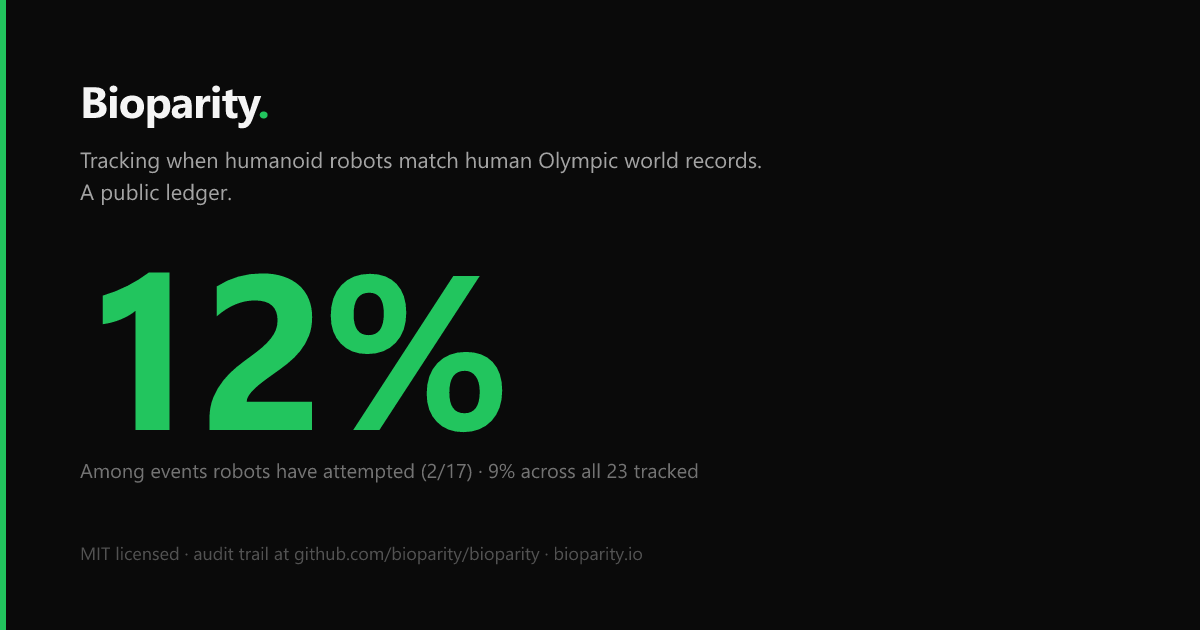
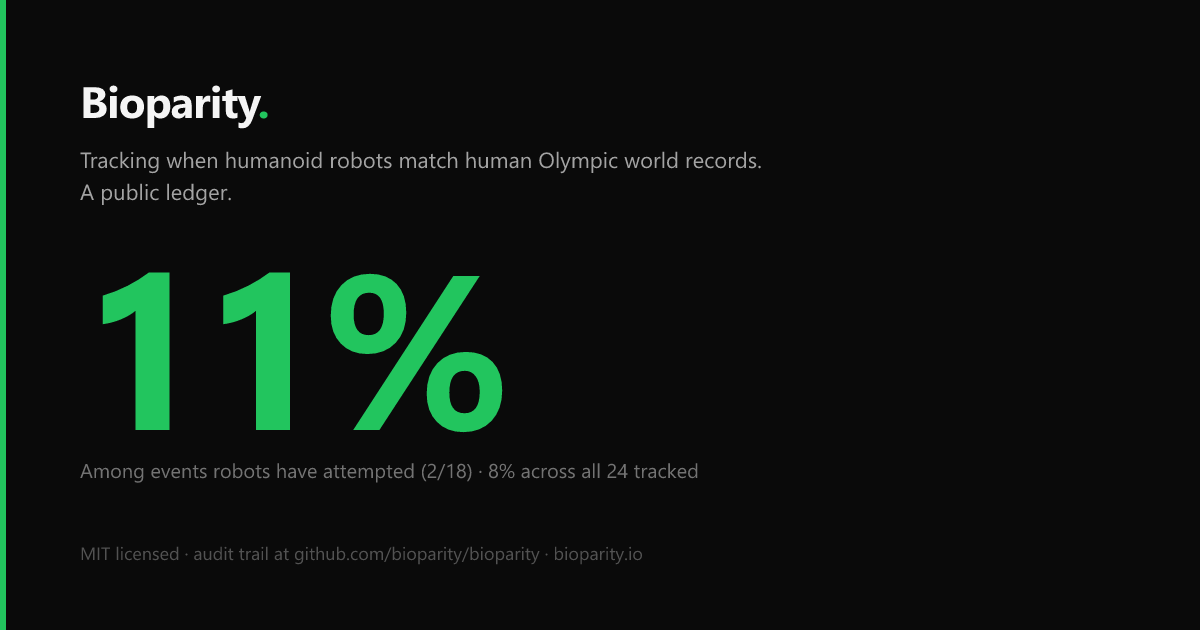
feat: add men's half marathon with real Kiplimo WR and Beijing Flash ineligible attempt

Changed region(s): [[0.1542, 0.4222, 0.2775, 0.6937]]

diff --git a/tests/engine.test.js b/tests/engine.test.js
@@ -255,11 +255,17 @@ test('5. precedence: outside epsilon and faster (lower_is_better) = Robot Lead',
 // ---------------------------------------------------------------------------
 // 6. Selection determinism — same input always same best
 // ---------------------------------------------------------------------------
-test('6. selection determinism: lower_is_better picks the lowest eligible value', () => {
+test('6. selection determinism: lower_is_better picks the lowest eligible value (verified set)', () => {
+  const verified = (overrides) => basePerformance({
+    validation_status: 'verified',
+    source_url: 'https://example.org/record',
+    sanctioning_body: 'World Athletics',
+    ...overrides,
+  });
   const perfs = [
-    basePerformance({ value: 11.0, date: '2025-01-01' }),
-    basePerformance({ value: 9.5, date: '2025-02-01' }),
-    basePerformance({ value: 10.0, date: '2025-03-01' }),
+    verified({ value: 11.0, date: '2025-01-01' }),
+    verified({ value: 9.5, date: '2025-02-01' }),
+    verified({ value: 10.0, date: '2025-03-01' }),
   ];
   const r1 = selectBestPerformance(perfs, 'lower_is_better');
   const r2 = selectBestPerformance(perfs.slice().reverse(), 'lower_is_better');
@@ -281,7 +287,7 @@ test('6. selection determinism: higher_is_better picks the highest eligible valu
 // ---------------------------------------------------------------------------
 // 7. Fallback flag: experimental chosen when no eligible row exists
 // ---------------------------------------------------------------------------
-test('7. fallback: when no eligible+validated row, best experimental ineligible row is selected with fallback=true', () => {
+test('7. selection: ineligible experimental rows are NEVER selected as best (eligibility required for both primary AND fallback)', () => {
   const perfs = [
     basePerformance({
       value: 9.0,
@@ -291,11 +297,45 @@ test('7. fallback: when no eligible+validated row, best experimental ineligible 
     }),
   ];
   const r = selectBestPerformance(perfs, 'lower_is_better');
+  assert.equal(r.performance, null);
+  assert.equal(r.fallback, false);
+});
+
+test('7. selection: experimental+eligible row is selected as fallback when no verified row exists', () => {
+  const perfs = [
+    basePerformance({
+      value: 9.0,
+      validation_status: 'experimental',
+      record_eligibility: { eligible: true, reason: null },
+    }),
+  ];
+  const r = selectBestPerformance(perfs, 'lower_is_better');
   assert.equal(r.performance.value, 9.0);
   assert.equal(r.fallback, true);
 });
 
-test('7. fallback: unverified rows are NEVER selected (even with eligible=true)', () => {
+test('7. selection: verified+eligible is preferred over experimental+eligible even when experimental is better', () => {
+  const perfs = [
+    basePerformance({
+      value: 10.0,
+      validation_status: 'verified',
+      source_url: 'https://example.org/record',
+      sanctioning_body: 'World Athletics',
+      record_eligibility: { eligible: true, reason: null },
+    }),
+    basePerformance({
+      value: 9.0,
+      validation_status: 'experimental',
+      record_eligibility: { eligible: true, reason: null },
+    }),
+  ];
+  const r = selectBestPerformance(perfs, 'lower_is_better');
+  assert.equal(r.performance.value, 10.0);
+  assert.equal(r.performance.validation_status, 'verified');
+  assert.equal(r.fallback, false);
+});
+
+test('7. selection: unverified rows are NEVER selected (even with eligible=true)', () => {
   const perfs = [
     basePerformance({
       value: 9.0,
@@ -560,4 +600,63 @@ test('12. ledger seed contains the ProRL Combine 2026 pending entry on mens-100m
   assert.equal(prorl.value, null);
   assert.equal(prorl.validation_status, 'unverified');
   assert.match(prorl.source_url || '', /pro-rl/);
+});
+
+// ---------------------------------------------------------------------------
+// 13. Real-event case: men's half marathon — Kiplimo (human WR) vs Honor Flash
+//     (Beijing E-Town, ineligible). The robot is faster but the surface is not
+//     standardized, so it must NOT be selected as best and the event must
+//     resolve to "Human Lead (no eligible robot performance)".
+// ---------------------------------------------------------------------------
+test('13. half marathon event loads from the seed without throwing', () => {
+  const ledger = loadLedger(LEDGER_PATH);
+  const ev = ledger.events.find(e => e.event_id === 'mens-half-marathon');
+  assert.ok(ev, 'mens-half-marathon must exist in the ledger');
+  assert.equal(ev.human_record.holder, 'Jacob Kiplimo');
+  assert.equal(ev.human_record.value, 3440);
+  assert.equal(ev.human_record.verified_by, 'World Athletics');
+});
+
+test('13. Honor Flash performance passes hard-fail validation', () => {
+  const ledger = loadLedger(LEDGER_PATH);
+  const ev = ledger.events.find(e => e.event_id === 'mens-half-marathon');
+  const flash = ev.performances.find(p => p.robot_model === 'Flash');
+  assert.ok(flash, 'Flash performance must exist');
+  assert.equal(passesHardFail(flash), true);
+});
+
+test('13. Honor Flash record_eligibility resolves to false on surface_standardized', () => {
+  const ledger = loadLedger(LEDGER_PATH);
+  const ev = ledger.events.find(e => e.event_id === 'mens-half-marathon');
+  const flash = ev.performances.find(p => p.robot_model === 'Flash');
+  const elig = checkEligibility(flash);
+  assert.equal(elig.eligible, false);
+  assert.match(elig.reason, /surface_standardized=false/);
+});
+
+test('13. selectBestPerformance returns null for the half marathon (no eligible row)', () => {
+  const ledger = loadLedger(LEDGER_PATH);
+  const ev = ledger.events.find(e => e.event_id === 'mens-half-marathon');
+  const sel = selectBestPerformance(ev.performances, ev.comparison_direction);
+  assert.equal(sel.performance, null);
+  assert.equal(sel.fallback, false);
+});
+
+test('13. computeStatus returns "Human Lead (no eligible robot performance)" for the half marathon', () => {
+  const ledger = loadLedger(LEDGER_PATH);
+  const ev = ledger.events.find(e => e.event_id === 'mens-half-marathon');
+  const result = computeStatus(ev);
+  assert.equal(result.status, STATUS.HUMAN_LEAD_NO_ELIGIBLE);
+  assert.equal(result.best_robot, null);
+});
+
+test('13. Flash row is preserved in event.performances (not filtered out) so the UI can render it as ineligible', () => {
+  const ledger = loadLedger(LEDGER_PATH);
+  const ev = ledger.events.find(e => e.event_id === 'mens-half-marathon');
+  assert.ok(ev.performances.length >= 1, 'performances array must retain ineligible attempts');
+  const flash = ev.performances.find(p => p.robot_model === 'Flash');
+  assert.ok(flash, 'Flash row must remain in event.performances even though ineligible');
+  assert.equal(flash.value, 3026);
+  assert.equal(flash.manufacturer, 'Honor');
+  assert.equal(flash.sanctioning_body, 'Beijing E-Town Half Marathon');
 });

diff --git a/app/event/[event_id]/page.js b/app/event/[event_id]/page.js
@@ -105,11 +105,6 @@ export default function EventPage({ params }) {
                 <span className="text-paper font-mono">{formatDelta(computed.delta_to_parity, event.metric_type)}</span>{' '}
                 <span className="text-dim">({formatPercent(computed.percent_to_parity)})</span>
               </div>
-              {computed.fallback && (
-                <div className="text-[10px] uppercase tracking-wider text-warn mt-2">
-                  Fallback: experimental
-                </div>
-              )}
             </>
           ) : (
             <div className="text-sm text-faint italic">No selectable performance.</div>
@@ -126,6 +121,57 @@ export default function EventPage({ params }) {
           <a href="/submit" className="underline hover:text-paper not-italic">submit a verified performance</a>.
         </p>
       )}
+
+      {(() => {
+        const ineligible = (event.performances || []).filter(p =>
+          p && p.value !== null && p.value !== undefined && p.record_eligibility && p.record_eligibility.eligible === false
+        );
+        if (ineligible.length === 0) return null;
+        return (
+          <section className="mt-10">
+            <h2 className="text-xs uppercase tracking-widest text-dim mb-3">Ineligible attempts</h2>
+            <div className="space-y-3">
+              {ineligible.map(p => (
+                <div key={p.performance_id} className="border border-rule rounded-lg p-5 bg-panel">
+                  <div className="flex items-start justify-between gap-4 mb-2">
+                    <div className="min-w-0">
+                      <div className="text-3xl font-mono tabular-nums text-paper">{formatValue(p.value, event.metric_type)}</div>
+                      <div className="text-sm text-muted mt-2">{p.robot_model}</div>
+                      <div className="text-xs text-dim mt-1">
+                        {formatDate(p.date)} · {p.manufacturer}
+                      </div>
+                    </div>
+                    <div className="flex flex-col items-end gap-2 shrink-0">
+                      <span className="text-[10px] uppercase tracking-wider px-2 py-0.5 border rounded bg-red-500/15 text-red-400 border-red-500/40 whitespace-nowrap">
+                        Ineligible
+                      </span>
+                      <ValidationBadge status={p.validation_status} />
+                    </div>
+                  </div>
+                  {p.record_eligibility.reason && (
+                    <p className="text-xs text-warn italic mt-3 leading-relaxed">
+                      {p.record_eligibility.reason}
+                    </p>
+                  )}
+                  {p.notes && (
+                    <p className="text-xs text-dim mt-3 leading-relaxed">{p.notes}</p>
+                  )}
+                  {p.source_url && (
+                    <a
+                      href={p.source_url}
+                      target="_blank"
+                      rel="noopener noreferrer"
+                      className="text-xs underline text-dim hover:text-paper mt-3 inline-block"
+                    >
+                      Source: {p.sanctioning_body || 'view'} →
+                    </a>
+                  )}
+                </div>
+              ))}
+            </div>
+          </section>
+        );
+      })()}
 
       {projection.projected_year && (
         <section className="mt-10">

diff --git a/lib/sanctioning-bodies.js b/lib/sanctioning-bodies.js
@@ -1,17 +1,20 @@
 export const SANCTIONING_BODIES = [
-  { code: 'World Athletics', name: 'World Athletics', domain: 'track-and-field' },
-  { code: 'FINA', name: 'World Aquatics (FINA)', domain: 'swimming-diving' },
-  { code: 'ISU', name: 'International Skating Union', domain: 'speed-skating-short-track' },
-  { code: 'IWF', name: 'International Weightlifting Federation', domain: 'weightlifting' },
-  { code: 'UCI', name: 'Union Cycliste Internationale', domain: 'cycling' },
-  { code: 'World Archery', name: 'World Archery Federation', domain: 'archery' },
-  { code: 'ISSF', name: 'International Shooting Sport Federation', domain: 'shooting' },
-  { code: 'FIS', name: 'International Ski and Snowboard Federation', domain: 'skiing-snowboarding' },
-  { code: 'IBU', name: 'International Biathlon Union', domain: 'biathlon' },
-  { code: 'IBSF', name: 'International Bobsleigh and Skeleton Federation', domain: 'bobsled-skeleton' },
-  { code: 'FIG', name: 'International Gymnastics Federation', domain: 'gymnastics' },
-  { code: 'World Rowing', name: 'World Rowing Federation', domain: 'rowing' },
-  { code: 'ProRL', name: 'Professional Robotics League', domain: 'humanoid-robotics' },
+  { code: 'World Athletics', name: 'World Athletics', domain: 'track-and-field', tier: 'governing' },
+  { code: 'FINA', name: 'World Aquatics (FINA)', domain: 'swimming-diving', tier: 'governing' },
+  { code: 'ISU', name: 'International Skating Union', domain: 'speed-skating-short-track', tier: 'governing' },
+  { code: 'IWF', name: 'International Weightlifting Federation', domain: 'weightlifting', tier: 'governing' },
+  { code: 'UCI', name: 'Union Cycliste Internationale', domain: 'cycling', tier: 'governing' },
+  { code: 'World Archery', name: 'World Archery Federation', domain: 'archery', tier: 'governing' },
+  { code: 'ISSF', name: 'International Shooting Sport Federation', domain: 'shooting', tier: 'governing' },
+  { code: 'FIS', name: 'International Ski and Snowboard Federation', domain: 'skiing-snowboarding', tier: 'governing' },
+  { code: 'IBU', name: 'International Biathlon Union', domain: 'biathlon', tier: 'governing' },
+  { code: 'IBSF', name: 'International Bobsleigh and Skeleton Federation', domain: 'bobsled-skeleton', tier: 'governing' },
+  { code: 'FIG', name: 'International Gymnastics Federation', domain: 'gymnastics', tier: 'governing' },
+  { code: 'World Rowing', name: 'World Rowing Federation', domain: 'rowing', tier: 'governing' },
+  { code: 'ProRL', name: 'Professional Robotics League', domain: 'humanoid-robotics', tier: 'league' },
+  // Event-organizer citations: not governing bodies, but used when the event itself is the citation source.
+  // Submissions sourced from these may still be ineligible if conditions did not match a governing body's regulations.
+  { code: 'Beijing E-Town Half Marathon', name: 'Beijing E-Town Humanoid Half Marathon', domain: 'humanoid-robotics', tier: 'event-organizer' },
 ];
 
 const CODES = new Set(SANCTIONING_BODIES.map(b => b.code));

diff --git a/lib/engine.js b/lib/engine.js
@@ -80,23 +80,20 @@ export function selectBestPerformance(performances, comparison_direction) {
 
   const withValue = arr.filter(p => p && p.value !== null && p.value !== undefined);
   const compliant = withValue.filter(p => passesHardFail(p));
+  const eligible = compliant.filter(p => checkEligibility(p).eligible === true);
 
-  const eligibleAndValidated = compliant.filter(p => {
-    if (p.validation_status === 'unverified') return false;
-    return checkEligibility(p).eligible === true;
-  });
-
-  if (eligibleAndValidated.length > 0) {
+  const verified = eligible.filter(p => p.validation_status === 'verified');
+  if (verified.length > 0) {
     return {
-      performance: reduceBest(eligibleAndValidated, comparison_direction),
+      performance: reduceBest(verified, comparison_direction),
       fallback: false,
     };
   }
 
-  const experimentalPool = compliant.filter(p => p.validation_status === 'experimental');
-  if (experimentalPool.length > 0) {
+  const experimental = eligible.filter(p => p.validation_status === 'experimental');
+  if (experimental.length > 0) {
     return {
-      performance: reduceBest(experimentalPool, comparison_direction),
+      performance: reduceBest(experimental, comparison_direction),
       fallback: true,
     };
   }

diff --git a/components/EventCard.js b/components/EventCard.js
@@ -16,7 +16,7 @@ const SEASON_DOT = {
 
 export default function EventCard({ event }) {
   const { computed } = event;
-  const { status, best_robot, delta_to_parity, percent_to_parity, fallback } = computed;
+  const { status, best_robot, delta_to_parity, percent_to_parity } = computed;
   const styleKey = status in STATUS_STYLES ? status : 'Human Lead';
   const badgeClass = STATUS_STYLES[styleKey];
   const shortStatus = status.startsWith('Human Lead (no')
@@ -81,11 +81,6 @@ export default function EventCard({ event }) {
         </div>
       )}
 
-      {fallback && (
-        <div className="mt-3 text-[10px] uppercase tracking-wider text-warn">
-          Fallback: experimental
-        </div>
-      )}
     </a>
   );
 }
